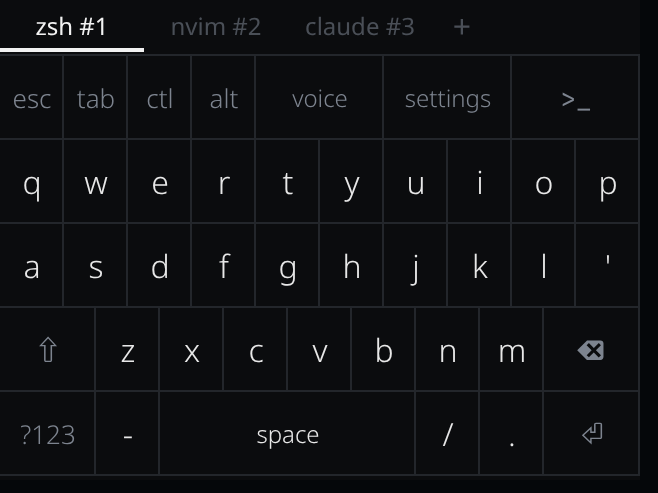
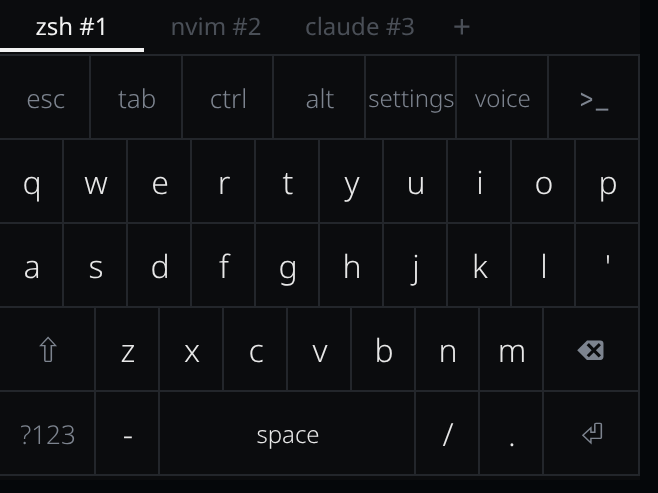
docs: update keyboard preview layout

diff --git a/docs/mockups/hairline-menus.html b/docs/mockups/hairline-menus.html
@@ -14,7 +14,7 @@
 <script>
 const U = 32, KH = 42, TOP = 28;
 const H = { plate:"#0b0c0e", hair:"#23262b", fg:"#e8e8e8", dim:"#7d848f", faint:"#4a4f57", sel:"#17191d" };
-const ACTION = [["esc",1],["tab",1],["ctl",1],["alt",1],["voice",2],["settings",2],[">_",2,"mono"]];
+const ACTION = [["esc",10/7],["tab",10/7],["ctrl",10/7],["alt",10/7],["settings",10/7],["voice",10/7],[">_",10/7,"mono"]];
 const LETTERS = [
   "qwertyuiop".split("").map(c=>[c,1]),
   [..."asdfghjkl".split("").map(c=>[c,1]),["'",1]],
